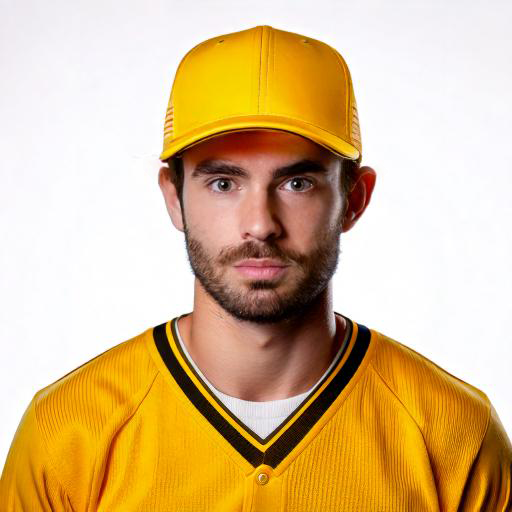
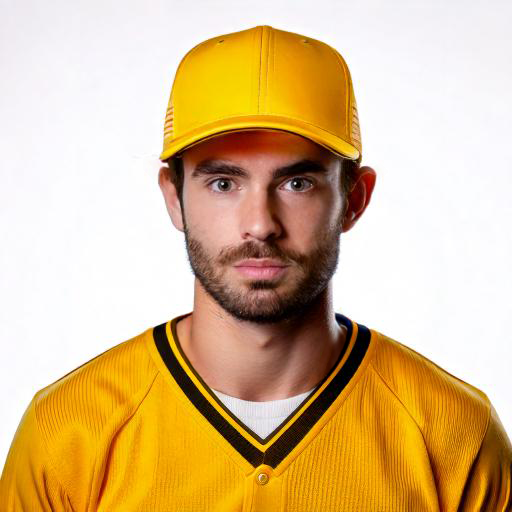
image updates

diff --git a/players.js b/players.js
@@ -9,7 +9,7 @@ const players = [
         bioLink: 'http://bratinstitute.com'},
     { no: 5, name: "KJ DeBarge", pos: "INF", year: "Junior", ht: "6'3\"", wt: "190 lbs", hometown: "Potomac, Md.", school: "Bullis HS", bt: "R/R", image: "images/5 KJ DeBarge.jpg",
         bioLink: 'http://bratinstitute.com'},
-    { no: 6, name: "Tanner Swain", pos: "INF", year: "Sophomore", ht: "6'5\"", wt: "240 lbs", hometown: "Syracuse, N.Y.", school: "Cicero-North Syracuse HS", bt: "R/R", image: "images/6 Tanner Swain.jpg",
+    { no: 6, name: "Tanner Swain", pos: "INF", year: "Sophomore", ht: "6'5\"", wt: "240 lbs", hometown: "Syracuse, N.Y.", school: "Cicero-North Syracuse HS", bt: "R/R", image: "images/6 Tanner Swain.png",
         bioLink: 'http://bratinstitute.com'},
     { no: 7, name: "Trey Favors", pos: "INF", year: "Freshman", ht: "5'10\"", wt: "175 lbs", hometown: "San Diego, Calif.", school: "St. Augustine HS", bt: "L/R", image: "images/7 Trey Favors.jpg",
         bioLink: 'http://bratinstitute.com'},
